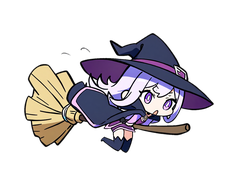
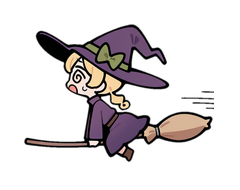
Replace witch sprites and title card with the Meluru design
- Bake the rich-style flying and hit renders into 240x190 sprites (origin 135,125)
- Regenerate the title card from the new standing render
- Record the revised character sheet, palette and production rules in docs/
- Keep the final sprite set and key visuals under art/meluru/

diff --git a/tools/make_ui_art.py b/tools/make_ui_art.py
@@ -22,7 +22,9 @@ from PIL import Image, ImageDraw, ImageFilter, ImageFont
 from prepare_sprite import build_alpha, remove_white_background
 
 ROOT = os.path.dirname(os.path.dirname(os.path.abspath(__file__)))
-SOURCE = os.path.join(ROOT, "art", "witch", "witch_chibi_s111.png")
+SOURCE = os.environ.get(
+    "UI_CARD_SOURCE", os.path.join(ROOT, "art", "witch", "witch_chibi_s111.png")
+)
 OUT_DIR = os.path.join(ROOT, "godot", "assets", "ui")
 
 FONT_BLACK = r"C:\Windows\Fonts\seguibl.ttf"

diff --git a/docs/witch_merulu_setting.md b/docs/witch_merulu_setting.md
@@ -31,12 +31,51 @@
 | 好き | 掃除、あたたかいミルク、地面 |
 | 魔法 | まだ何も使えない。唯一使えるのは「ほうきにまたがること」 |
 
-**見た目**
+**見た目（改訂）**
 
-- グランマのおさがりのとんがり帽子。大きすぎてすぐ目元までずり落ちる
-- 袖の余った薄紫のローブ、胸元にミント色のリボン
-- たんぽぽ色のくせ毛を低い二つ結びにしている
-- 飛行中はほうきにしがみついて目をつぶりがち（ドット絵でも読める「しがみつきポーズ」を基本に）
+> 旧スプライトは紫髪だったが、設定は「たんぽぽ色のくせ毛」。ここを設定側に合わせる。
+> 紫ローブ＋紫髪はコントラストが低く、小さいスプライトで潰れるため、配色としても黄髪が正しい。
+
+- **シルエット**: 大きな三角帽子＋丸いマント＋短い脚の「三角形」。32px でも判別できる形を優先する
+- **帽子**: 濃紫。つばは広いが、**目の位置より上で止める**（顔を隠さない）。付け根にミントのリボン
+- **髪**: たんぽぽ色のくせ毛を低い二つ結び。毛先は外へ跳ねる。前髪は目の上で止める
+- **ローブ**: 薄紫。袖が余って**手が隠れる**（手の破綻を隠す狙いも兼ねる）
+- **胸元**: ミント色のリボン。ここだけ差し色
+- **靴**: 濃茶のショートブーツ
+- **目**: 紫。大きめで、ハイライトは2点。頬に赤み
+- 飛行中はほうきにしがみついて目をつぶりがち（「しがみつきポーズ」を基本に）
+
+**カラーパレット**
+
+| 用途 | 基本色 | 影色 |
+| --- | --- | --- |
+| 髪 | `#F2C14E` | `#D99A2B` |
+| ローブ | `#8E7CC3` | `#6B5A9E` |
+| 帽子 | `#3B2A4A` | `#5A4470`（つば裏） |
+| リボン | `#7FD8BE` | `#4FB79B` |
+| 肌 | `#FBE3D6` | `#F2C4B4` |
+| 頬 | `#F4A7B9` | — |
+| 靴 | `#5B4033` | `#3E2B22` |
+| 線 | `#2B2030` | — |
+
+**制作上の制約**
+
+スプライトは 240×190 前後で使うため、細部は描かない。以下を守る。
+
+1. **3頭身**。頭・胴・脚で3つ
+2. **手は袖で隠す**。指を描かせない（破綻の最大要因を構造的に回避）
+3. **装飾は3つまで**（帽子リボン・胸リボン・ブーツ）。増やすと小サイズで潰れる
+4. **線は太く均一**、影は2段まで
+5. 帽子のつばで顔を隠さない（表情が読めなくなる）
+
+**表情とポーズ（ゲームで使う分）**
+
+| 用途 | 表情 | ポーズ |
+| --- | --- | --- |
+| 待機 | 困り顔（眉を下げる） | 立ち、腕は下ろす |
+| 飛行（メイン） | 目をつぶる／必死 | ほうきにしがみつく、前傾 |
+| 被弾 | 目を見開く、口を開ける | のけぞる、腕を上げる |
+| タイトル | 泣きそう | 見上げる、帽子を押さえる |
 
 **よける理由の味付け**：勇気ではなく「怖いから必死で逃げる」。よけるたびに障害物へ謝るボイスを入れると、プレイ中もキャラが立ちます。
 
@@ -156,3 +195,111 @@
 - [ ] 神々の人数と個性（実況役・解説役を立てるか）
 - [ ] ゲームオーバー時の扱い（ぶつかっても上昇は止まらない設定との整合）
 - [ ] グランマの再登場の有無
+
+## イラスト制作レシピ
+
+[07 要素ベースの絵柄設計](ai-quality/07-style-generic.md) の方針に従う。IP画風LoRAは使わない。
+
+```powershell
+python tools/comfy.py gen --preset noobai --seed 5041 `
+  --lora "cute-anime.safetensors:0.85" `
+  --prompt "1girl, solo, witch, original, chibi, super deformed, standing, arms at sides, full body, front view, witch hat on head, blonde curly hair, low twintails, big purple eyes, long sleeves, purple robe, brown boots, mint ribbon, white background, soft lighting, cel shading, detailed hair, gradient shading" `
+  --name meluru_stand --out art/meluru/rich2
+```
+
+**タグの順序**: `witch hat on head` → 髪 → 目。目を先に置くと帽子に目が生える。
+
+**Toon LoRA は使わない**。使うと陰影が削られて平坦になる（使うなら 0.05〜0.1 の味付け）。
+
+| 用途 | 追加・変更するタグ |
+| --- | --- |
+| 飛行 | `riding broom, flying, leaning forward, holding broom, from side` ＋ ControlNet（pose 0.9） |
+| 被弾 | `spiral eyes, mouth wide open, sweat, impact lines` ＋ ControlNet（pose 0.9）※`hit`/`falling` は使わない |
+| タイトル | `portrait, upper body, looking up` |
+
+生成後は `tools/trim_sprite.py` で 512px に正規化し、影は Godot 側で描く。
+
+## 生成済みアセット
+
+**リッチA 方式**（Toon LoRAなし・`cel shading, detailed hair, gradient shading`）で作り直した版。
+`art/meluru/final_rich/`（512×512・RGBA・透過済み）
+
+| ファイル | 用途 | 元画像 / seed |
+| --- | --- | --- |
+| `meluru_stand.png` | 待機・立ち | `rich_cute_s5041.png` |
+| `meluru_fly.png` | 飛行（メイン） | `r_fly2_s6113.png`（ControlNet pose） |
+| `meluru_hit.png` | 被弾 | `r_hit_f_s6110.png`（ControlNet pose） |
+| `meluru_face.png` | タイトル・会話 | `r_face_s6106.png` |
+| `meluru_34.png` | 斜め立ち | `r_34_s6107.png` |
+
+![メルルのスプライトセット](ai-quality/assets/meluru-set.png)
+
+旧フラット版は `art/meluru/final/` に残してある（比較用）。
+
+### 方針転換の記録
+
+最初のフラット版は、Toon LoRA 0.15 と `thick outlines, flat color` によって陰影と描き込みが削られていた。
+描き込みを戻すため、以下に変更した。
+
+- **Toon LoRA を使わない**（使うなら 0.05〜0.1 の味付け）
+- `thick outlines, flat color` を外し、`cel shading, detailed hair, gradient shading` を入れる
+- 線の太さはプロンプトではなく、衣装のコントラストで読ませる
+
+### 被弾差分の作り方
+
+「大げさにわかりやすく」するため、次の順で試した。
+
+| 試行 | 結果 |
+| --- | --- |
+| `hit, knocked back, arms up, tears, impact lines`（地上） | セリフ吹き出しが入り、スプライトに不向き |
+| `hit, falling backwards, hat flying off` | **キャラが2人に増える**破綻 |
+| `riding broom, hit, spiral eyes, impact lines`（CNなし） | 箒が分離し、小物が浮遊 |
+| **`riding broom` + ControlNet pose + `spiral eyes, mouth wide open, sweat, impact lines`** | **採用**。1人・箒そのままで、顔と効果線で被弾が読める |
+
+**教訓**: `hit` / `falling` のような「崩れる」語は、構図ごと壊してキャラを増殖させる。**ポーズは ControlNet で固定し、差分は顔と効果線で作る**のが安定する。
+
+ゲーム内では `player.gd` の被弾演出（スケールのつぶれ＋色変化）と `ring.gd` のリングが重なるので、スプライト単体より強く伝わる。
+
+## 破綻レビュー（リッチA版）
+
+| カット | 判定 | 内容 |
+| --- | --- | --- |
+| 立ち | OK | 手は袖で隠れ、足元も接地。破綻なし |
+| 飛行 | OK | 箒は穂先が片側のみ、ブーツあり。二重穂先が出た版は不採用 |
+| 被弾 | OK | 1人・箒そのまま。渦巻き目と効果線で被弾が読める |
+| タイトル顔 | 軽微 | 顎の下の手は描いていないため融合なし。ただし正面寄りで表情の振れ幅は小さい |
+| 斜め立ち | 軽微 | `three-quarter view` が効かず正面寄り |
+
+**確認した破綻の型（再利用可）**: `hit` / `falling` / `knocked back` を入れると**キャラが増殖**する。`hat flying off` も同様。ポーズは ControlNet で固定し、差分は顔と効果線で作る。
+
+## キービジュアル
+
+### 縦長（ゲーム用・9:16）
+
+`art/meluru/kv3/`（リッチA方式 / 768×1344）
+
+| ファイル | 内容 |
+| --- | --- |
+| `meluru_kv_portrait.png` | 縦長キービジュアル（768×1344） |
+| `meluru_kv_portrait_title.jpg` | ロゴを載せたタイトル画面イメージ |
+| `preview_540x960.jpg` | ゲーム実解像度（540×960）の確認用 |
+
+![縦長キービジュアル](ai-quality/assets/meluru-kv-portrait.png)
+
+![タイトル画面（540×960）](ai-quality/assets/meluru-kv-540x960.jpg)
+
+**構図**: 月を上、ロゴをその下、メルルを中央、湖と灯りを下段。
+ロゴは幅52%・上から7%に置くと、帽子にも月にも当たらず収まる。60%以上にすると帽子と衝突する。
+
+### 横長（プロモーション用・16:11）
+
+`art/meluru/kv2/`（1216×832）
+
+| ファイル | 内容 |
+| --- | --- |
+| `meluru_kv_rich.png` | 横長キービジュアル |
+| `meluru_kv_rich_title.jpg` | ロゴ載せ版 |
+
+![横長キービジュアル](ai-quality/assets/meluru-kv.png)
+
+**旧KVとの違い**: 旧版は Toon 0.15 ＋ `thick outlines, flat color` で平坦だった。リッチAではトゥーンを外し、空のグラデーションと髪の描き込みが戻っている。
